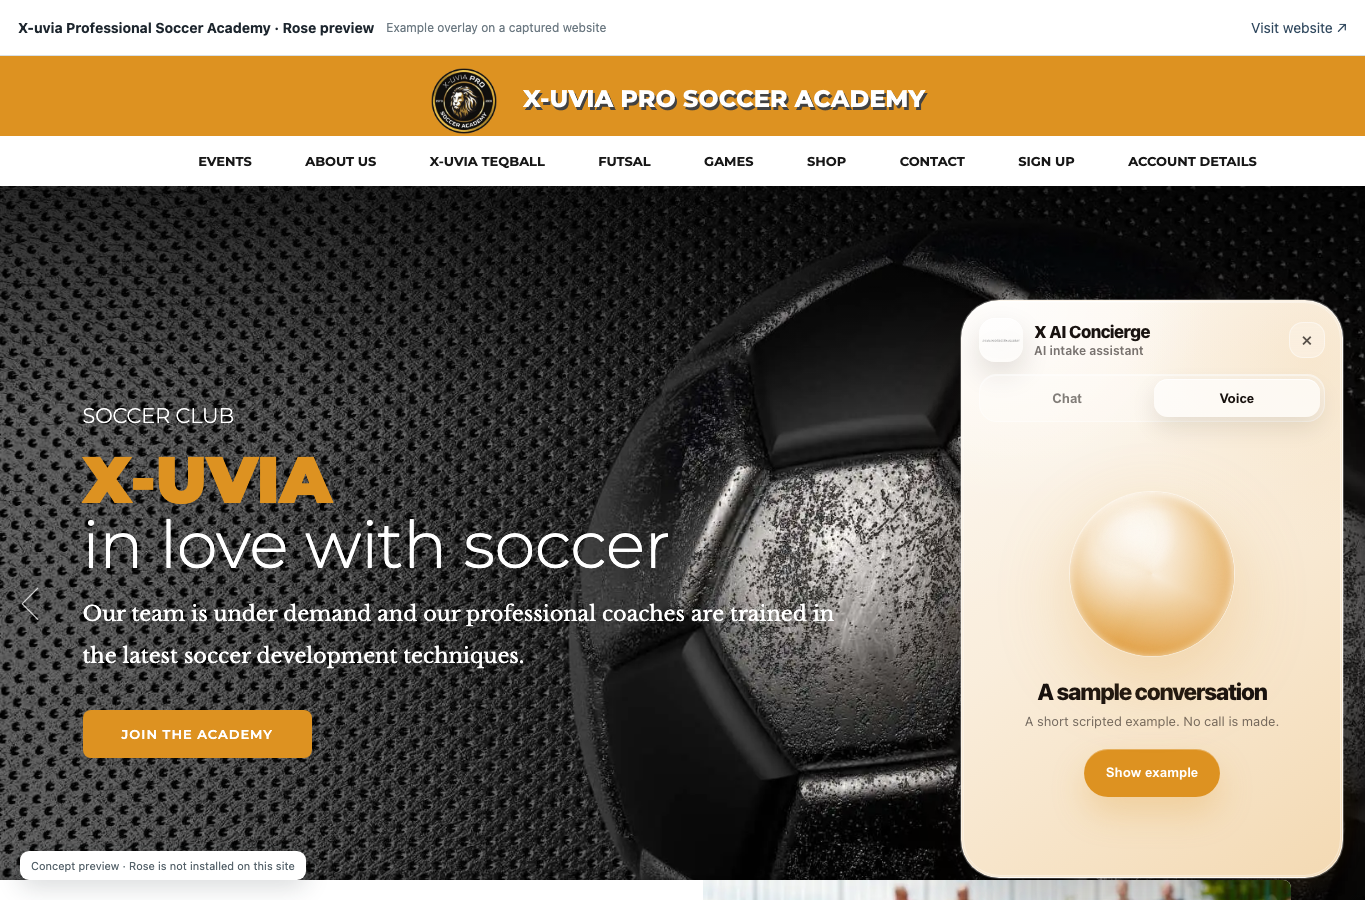
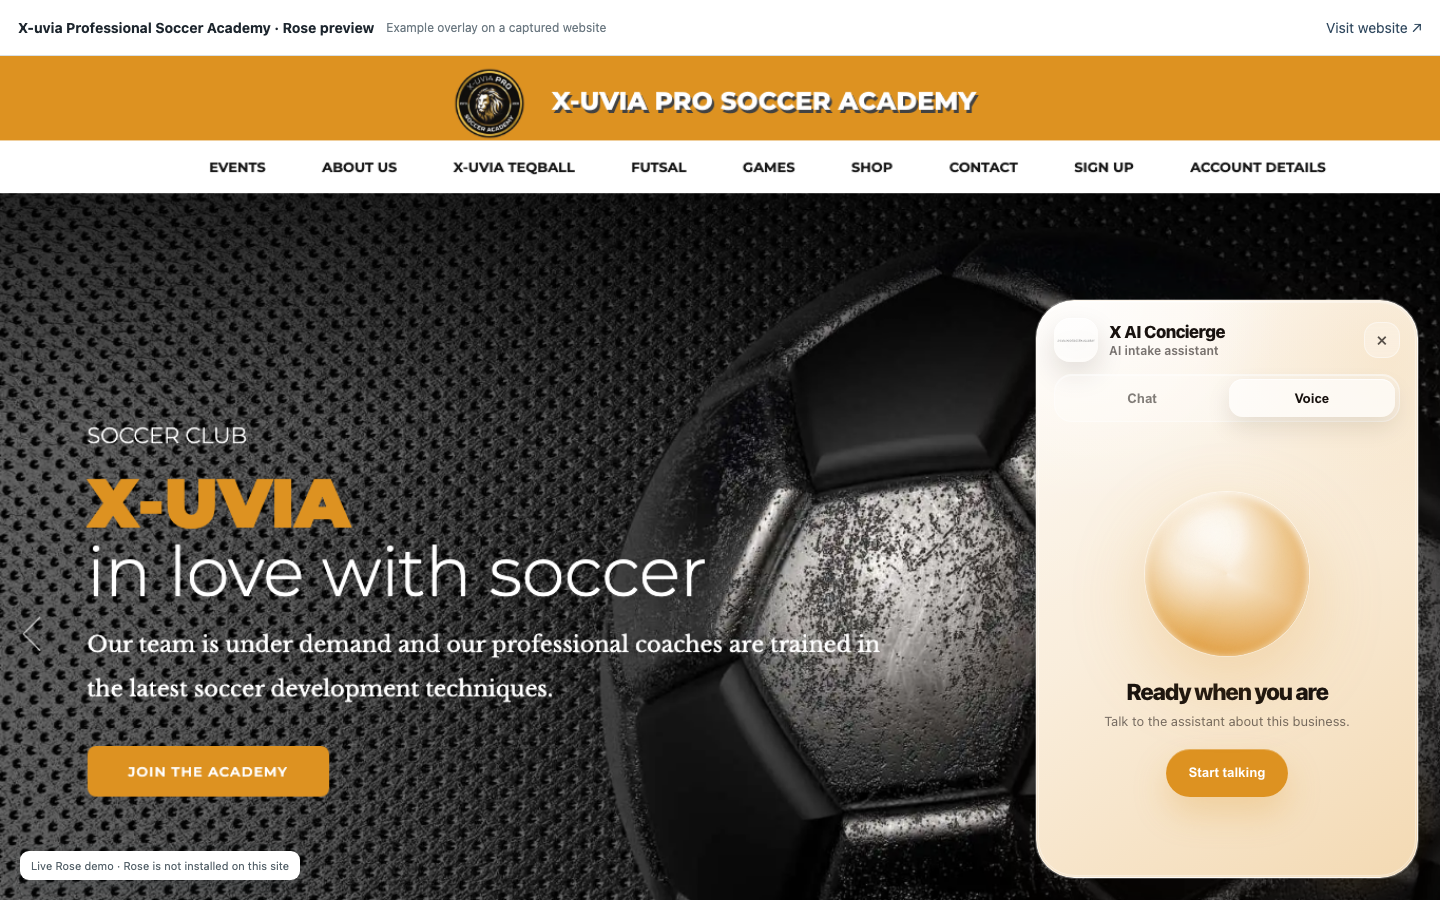
Enable live Rose chat and voice in prospect preview

diff --git a/rose-previews/x-uvia-professional-soccer-academy-b816a4d5/rose-workground-widget.js b/rose-previews/x-uvia-professional-soccer-academy-b816a4d5/rose-workground-widget.js
@@ -21,6 +21,7 @@
     businessContext: script?.dataset.businessContext || "",
     services: script?.dataset.services || "",
     demo: script?.dataset.demo === "true",
+    livePreview: script?.dataset.livePreview === "true",
   };
 
   const css = `
@@ -103,8 +104,9 @@
   }
 
   if (cfg.demo) {
-    $(".wr-note").textContent = "A short scripted example. No call is made.";
-    $(".wr-start-voice").textContent = "Show example";
+    $(".wr-status").textContent = cfg.livePreview ? "Ready when you are" : "A sample conversation";
+    $(".wr-note").textContent = cfg.livePreview ? "Talk to the assistant about this business." : "A short scripted example. No call is made.";
+    $(".wr-start-voice").textContent = cfg.livePreview ? "Start talking" : "Show example";
     addDemoSuggestions();
     const demoStyle = document.createElement("style");
     demoStyle.textContent = ".wr-demo-suggestions{display:flex;gap:6px;flex-wrap:wrap;padding:5px 0 8px 36px}.wr-demo-suggestions button{border:1px solid rgba(255,87,34,.24);background:rgba(255,255,255,.72);color:#9b3c1b;border-radius:999px;padding:8px 10px;font:700 11px Inter,system-ui,sans-serif;cursor:pointer}.wr-demo-suggestions button:hover{background:#fff}.wr-ai.inline .wr-msg.bot{background:rgba(255,255,255,.78)}.wr-ai.inline .wr-chat-log{gap:12px}.wr-ai.inline .wr-compose{background:rgba(255,255,255,.64)}";
@@ -112,9 +114,11 @@
   }
 
   function previewAssistantName(brand) {
-    const first = brand.replace(/[^a-z0-9 ]/gi, " ").trim().split(/\s+/)[0] || "Site";
+    const initials = brand.match(/^[A-Za-z](?:\s*&\s*[A-Za-z])+/)?.[0]?.replace(/\s+/g, "");
+    const first = initials || brand.replace(/[^a-z0-9 ]/gi, " ").trim().split(/\s+/)[0] || "Site";
     const value = brand.toLowerCase();
     const role = /locat|utility|contract|build|roof|plumb|electric|service|repair|trade/.test(value) ? "Site Scout"
+      : /clean|janitor|maid/.test(value) ? "Clean Team"
       : /vet|clinic|health|care|dental|animal|pet/.test(value) ? "Care Guide"
       : /real estate|home|property/.test(value) ? "Home Guide"
       : /restaurant|food|cafe|bar/.test(value) ? "Table Guide"
@@ -140,7 +144,9 @@
       image.onerror = () => { image.onerror = null; image.src = "wildrose.png"; };
       image.src = cfg.logo;
     });
-    cfg.greeting = `Hi, I'm the ${cfg.businessName} assistant. I can help with questions or collect a request for the team. My answers will come from information the business approves.`;
+    cfg.greeting = cfg.livePreview
+      ? `Hi, I'm a demo assistant for ${cfg.businessName}. Ask me about information on their website. I can't book or contact their team from this preview.`
+      : `Hi, I'm the ${cfg.businessName} assistant. I can help with questions or collect a request for the team. My answers will come from information the business approves.`;
     log.replaceChildren();
     addMsg("bot", cfg.greeting);
     addDemoSuggestions();
@@ -277,7 +283,7 @@
   }
   async function ensureChat() {
     if (chatId) return chatId;
-    const data = await api("/api/chat/start", { page: location.href, businessId: cfg.businessId, ownerEmail: cfg.ownerEmail, businessName: cfg.businessName, website: cfg.website, businessContext: cfg.businessContext, services: cfg.services, title: cfg.title, assistantName: cfg.title, greetingMessage: cfg.greeting, previewMode: cfg.inline || !cfg.loadPublished });
+    const data = await api("/api/chat/start", { page: location.href, businessId: cfg.businessId, ownerEmail: cfg.ownerEmail, businessName: cfg.businessName, website: cfg.website, businessContext: cfg.businessContext, services: cfg.services, title: cfg.title, assistantName: cfg.title, greetingMessage: cfg.greeting, previewMode: cfg.livePreview || cfg.inline || !cfg.loadPublished, prospectPreview: cfg.livePreview });
     chatId = data.chatId;
     return chatId;
   }
@@ -287,7 +293,7 @@
     input.value = "";
     addMsg("user", content);
     const pending = addMsg("bot", "Thinking…");
-    if (cfg.demo) {
+    if (cfg.demo && !cfg.livePreview) {
       const lower = content.toLowerCase();
       let answer;
       if (demoStage === "project") {
@@ -327,7 +333,7 @@
   $(".wr-start-voice").addEventListener("click", async () => {
     const status = $(".wr-status"), note = $(".wr-note"), orb = $(".wr-orb"), startBtn = $(".wr-start-voice"), endBtn = $(".wr-end-voice");
     if (voiceBusy) return;
-    if (cfg.demo) {
+    if (cfg.demo && !cfg.livePreview) {
       voiceBusy = true;
       startBtn.disabled = true;
       status.textContent = "Visitor asks";
@@ -355,7 +361,7 @@
       status.textContent = "Connecting…";
       const [{ RetellWebClient }, call] = await Promise.all([
         import("https://esm.sh/retell-client-js-sdk@2.0.7"),
-        api("/api/voice/start", { page: location.href, businessId: cfg.businessId, ownerEmail: cfg.ownerEmail, businessName: cfg.businessName, website: cfg.website, businessContext: cfg.businessContext, services: cfg.services, title: cfg.title, assistantName: cfg.title, greetingMessage: cfg.greeting, previewMode: cfg.inline || !cfg.loadPublished })
+        api("/api/voice/start", { page: location.href, businessId: cfg.businessId, ownerEmail: cfg.ownerEmail, businessName: cfg.businessName, website: cfg.website, businessContext: cfg.businessContext, services: cfg.services, title: cfg.title, assistantName: cfg.title, greetingMessage: cfg.greeting, previewMode: cfg.livePreview || cfg.inline || !cfg.loadPublished, prospectPreview: cfg.livePreview })
       ]);
       retellClient = new RetellWebClient();
       let speechReleaseTimer = null;

diff --git a/rose-previews/x-uvia-professional-soccer-academy-b816a4d5/index.html b/rose-previews/x-uvia-professional-soccer-academy-b816a4d5/index.html
@@ -11,8 +11,29 @@
 </style></head><body>
 <header class="bar"><strong>X-uvia Professional Soccer Academy · Rose preview</strong><span>Example overlay on a captured website</span><a href="https://xuviasoccer.com/" target="_blank" rel="noopener noreferrer">Visit website ↗</a></header>
 <main class="page"><img src="site.png" alt="Screenshot of X-uvia Professional Soccer Academy website"></main>
-<div class="label">Concept preview · Rose is not installed on this site</div>
-<script src="rose-workground-widget.js" data-demo="true" data-load-published="false" data-logo="wildrose.png" data-title="Your AI assistant"></script>
+<div class="label">Live Rose demo · Rose is not installed on this site</div>
+<script src="rose-workground-widget.js" data-demo="true" data-live-preview="true" data-api-base="https://wildrose-widget.wildeautomations.com" data-load-published="false" data-logo="wildrose.png" data-title="Your AI assistant" data-website="https://xuviasoccer.com/" data-business-context="2023 Soccer Tour
+X-Uvia is traveling to the UK
+in love with soccer
+Now open to the world!
+X-UVIA AND CHIEVO
+SIGN PARTNERSHIP
+FROM THE ACADEMY
+X-Uvia Professional Soccer Academy worldwide was established in 2003 in Ottawa, Ontario, Canada and, was extracted from the word Exuviate. Exuviate is what we do, it is the building block of our success in the development of players to obtain very high levels in soccer/football.
+COMPETITIVE TEAM
+We are a competitive Academy – with our members competing at professional levels throughout the world.
+COACHING COURSES
+Our coaches are growing and learning from professional coaches at the highest level.
+PROFESSIONAL STUFF
+DEVELOPMENT TEAMS
+Our members are taught the importance of each pillar in the Academy’s methodology; these pillars are embedded in our players because they are imperative to their success as footballers.
+Above and beyond the four (4) pillars is the pre-requisite of having a positive attitude and respect. XPSA players must possess a positive attitude to join our academy
+POSITIVE ATTITUDE
+JUNIOR TEAM MEMBER
+LAEL KAMAGO TCHEUFFA
+Hello, my name is Lael
+It’s my first time to be in an academy and I like it same as both my coaches (Coach Richard and coach Ed).
+The coaches always want us to work hard and they give us some minutes to rest. they always tell us to push hard even if we are tired. Anyways if i had to stay there for many years it will be great because i will be a better soccer player."></script>
 <script>
 const style={"url": "https://xuviasoccer.com/", "host": "xuviasoccer.com", "name": "X-UVIA PRO. SOCCER ACADEMY", "accent": "#dd9221", "softAccent": "#f1d3a6", "panel": "#fcf5eb", "stage": "#f2e4d2", "logo": "https://i0.wp.com/xuviasoccer.com/wp-content/uploads/2021/04/xpsa-title.png?fit=415%2C80&ssl=1", "source": "Website colors and branding"};
 window.__rosePurchasePreviewApplyStyle?.(style);
